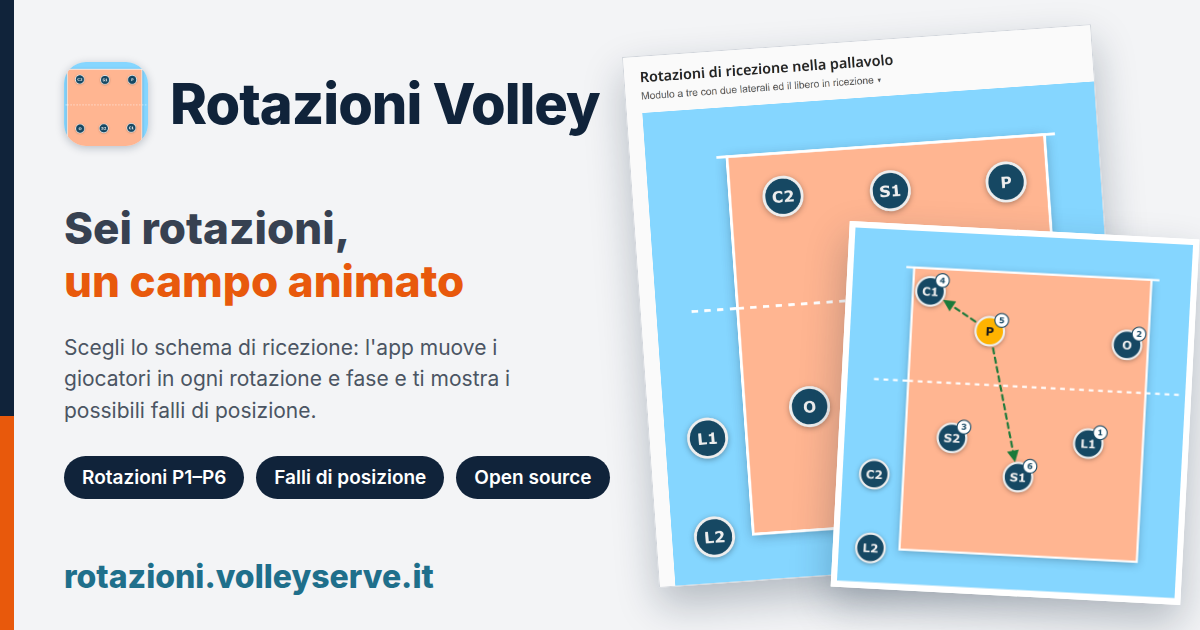
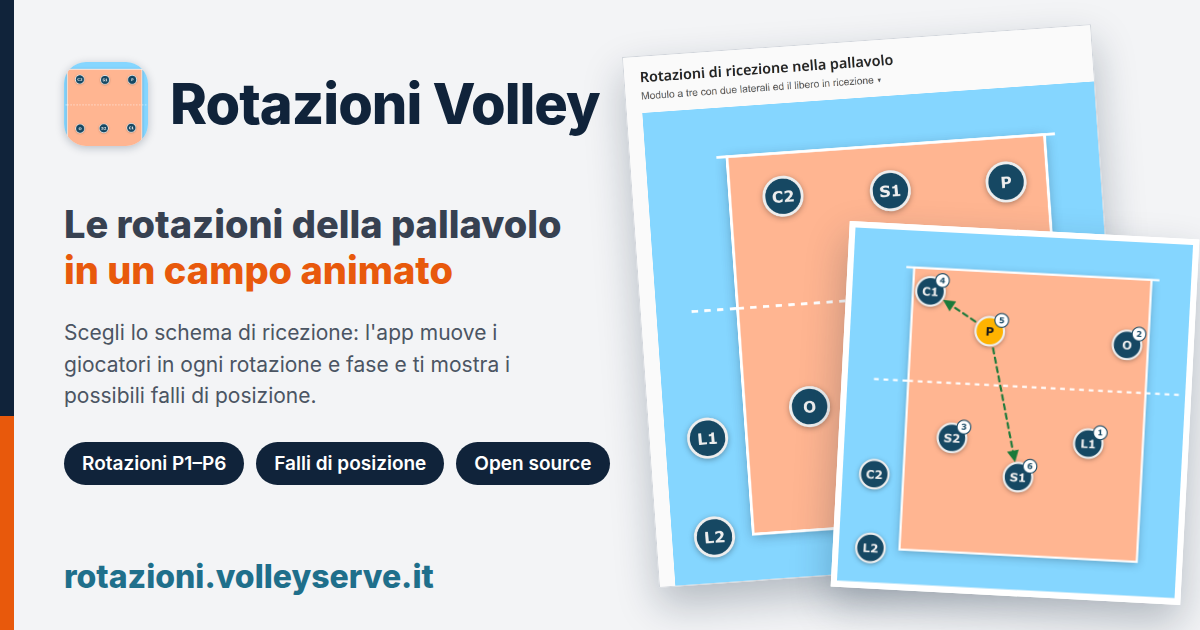
Point iPhone users to "View More" and retitle the social preview
Recent iOS hides "Add to Home Screen" behind "View More" in the share
sheet, so the install hint and the README now mention that step. The
social preview headline becomes "Le rotazioni della pallavolo in un
campo animato".

Changed region(s): [[0.0308, 0.6937, 0.5242, 0.8143], [0.0308, 0.5127, 0.4317, 0.6635], [0.0308, 0.3317, 0.4625, 0.4825]]

diff --git a/web/src/i18n/strings.ts b/web/src/i18n/strings.ts
@@ -205,7 +205,7 @@ export const strings = {
     'support.note':
       'La donazione è completamente facoltativa e non sblocca funzionalità aggiuntive. Il link apre il sito di PayPal: finché non lo scegli, questa pagina non contatta PayPal.',
     'update.iosInstallHint':
-      "Puoi installare l'app su iPhone/iPad: in Safari tocca Condividi e poi \"Aggiungi alla schermata Home\". Funziona anche senza connessione e si aggiorna da sola.",
+      "Puoi installare l'app su iPhone/iPad: in Safari tocca Condividi, poi \"Visualizza altro\" (la freccia in basso) e scegli \"Aggiungi alla schermata Home\". Funziona anche senza connessione e si aggiorna da sola.",
     'info.updatesCheck': "Controlla gli aggiornamenti all'avvio",
 
     'language.label': 'Lingua',
@@ -408,7 +408,7 @@ export const strings = {
     'support.note':
       'The donation is entirely optional and does not unlock any extra features. The link opens the PayPal website: until you choose it, this page does not contact PayPal.',
     'update.iosInstallHint':
-      'You can install the app on iPhone/iPad: in Safari tap Share, then "Add to Home Screen". It also works offline and updates itself.',
+      'You can install the app on iPhone/iPad: in Safari tap Share, then "View More" (the arrow at the bottom) and pick "Add to Home Screen". It also works offline and updates itself.',
     'info.updatesCheck': 'Check for updates at start',
 
     'language.label': 'Language',

diff --git a/README.md b/README.md
@@ -17,7 +17,7 @@ l'applicazione può essere usata a questo indirizzo [https://napo.github.io/rota
 - **Note**: un commento per ogni rotazione e fase, riportato anche negli export.
 - **Export**: PNG, PDF (pagina singola o sequenza) e video animato (`.webm`, o `.mp4` su Safari), con la possibilità di includere falli di posizione e competenze di ricezione. Dallo stesso menu si esporta la configurazione dello schema in uso (JSON), competenze comprese.
 - **Sostieni lo sviluppo**: nella pagina Info, una donazione volontaria tramite PayPal (facoltativa, non sblocca nulla); l'app la ricorda solo negli avvisi di aggiornamento.
-- **Installabile come app (PWA)**: dal browser si può installare l'app sulla schermata Home (su iPhone/iPad: Safari → Condividi → "Aggiungi alla schermata Home"; su Android: Chrome → menu ⋮ → "Installa app"). Funziona anche senza connessione.
+- **Installabile come app (PWA)**: dal browser si può installare l'app sulla schermata Home (su iPhone/iPad: Safari → Condividi → "Visualizza altro" → "Aggiungi alla schermata Home"; su Android: Chrome → menu ⋮ → "Installa app"). Funziona anche senza connessione.
 - **App desktop e Android**: gli installer per Windows (`.exe`/`.msi`), macOS (`.dmg`), Linux (`.AppImage`/`.deb`/`.rpm`) e Android (`.apk`) sono allegati a ogni [release](https://github.com/napo/rotazionivolley/releases/latest) e linkati dalla pagina Info della versione web.
 - **Aggiornamenti**: la versione web/PWA scarica le nuove versioni da sola e propone "Aggiorna ora"; le app desktop/Android segnalano quando c'è una versione più recente (su desktop si installa in-app con un clic), e il controllo si può disattivare dalla pagina Info.
 
